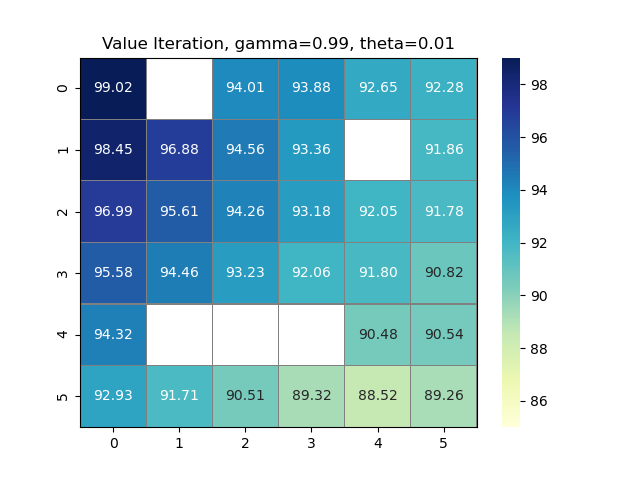
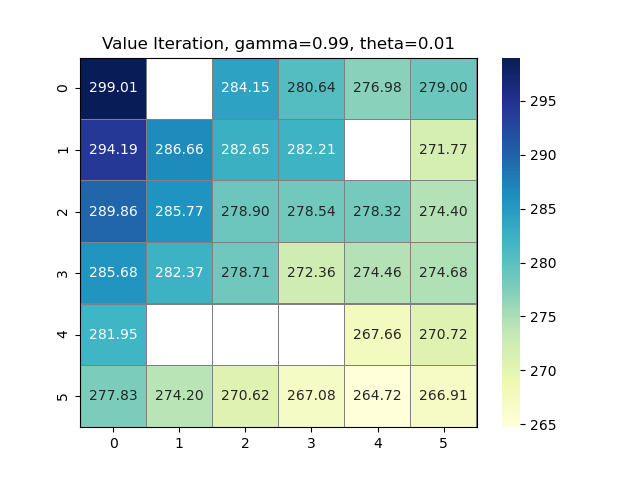
updated code to reflect IA equations

diff --git a/learner/policy_iteration.py b/learner/policy_iteration.py
@@ -1,7 +1,60 @@
 import numpy as np
 from learner.learner import Learner
+from copy import deepcopy
 
 class PolicyIterationLearner(Learner):
     def __init__(self, env):
         super(PolicyIterationLearner, self).__init__(env)
         self.name = "Policy Iteration"
+        self.action_dict = {
+            "Up": 0,
+            "Down": 1,
+            "Left": 2,
+            "Right": 3
+        }
+
+    def bellman_update(self, s, gamma, V):
+        Q_values = []
+        action_probs = []
+        for a in self.env.actions:
+            q_value = 0
+            action_idx = self.action_dict[a]
+            action_prob = self.pi[s, action_idx]
+            action_probs.append(action_prob)
+            for next_state, probability in self.env.transitions(s, a):
+                next_location = self.env._to_location(next_state)
+                reward = self.env.get_reward(next_location)
+                q_value += probability * (reward + gamma * V[next_state])
+            Q_values.append(q_value)
+        Q_values = np.asarray(Q_values)
+        action_probs = np.asarray(action_probs)
+        self.V[s] = np.dot(Q_values, action_probs)
+
+    def policy_evaluation(self, gamma, theta):
+        self.gamma = gamma
+        self.theta = theta
+        i = 0
+        while True:
+            V_old = deepcopy(self.V)
+            delta = 0
+            if i % 50 == 0:
+                print('On iteration', i)
+            for s in self.env.learnable_states:
+                v = V_old[s] # cache value for comparison between iterations
+                self.bellman_update(s, gamma, V_old)
+                delta = max(delta, abs(v - self.V[s]))
+            i += 1
+            if delta < theta:
+                print('Converged within theta margin at iteration', i)
+                break
+
+    def policy_improvement(self):
+        # wrapper around greedification to be idiomatic with terminology
+        for s in self.env.states:
+            if s in self.env.learnable_states:
+                self.q_greedify_policy(s, self.gamma)
+            else:
+                self.pi[s] = np.zeros(self.env.n_actions)
+
+    def policy_iteration(self, gamma, theta):
+        self.policy_evaluation(gamma, theta)

diff --git a/tests/test_maze.py b/tests/test_maze.py
@@ -56,9 +56,9 @@ def test_state_provider():
     action_2 = 'Up'
     action_3 = 'Right'
 
-    assert maze.get_new_state(action_1, location) == (1, 0)
-    assert maze.get_new_state(action_2, location) == (0, 0)
-    assert maze.get_new_state(action_3, location) == (0, 0)
+    assert maze.get_new_location(action_1, location) == (1, 0)
+    assert maze.get_new_location(action_2, location) == (0, 0)
+    assert maze.get_new_location(action_3, location) == (0, 0)
 
 def test_learnability():
     maze = Maze('default')
@@ -68,26 +68,25 @@ def test_learnability():
     assert maze.is_learnable_state(location1) == True
     assert maze.is_learnable_state(location2) == False 
 
-def test_transitions():
-    maze = Maze('default')
-    location = (0, 0)
-    action_1 = 'Down'
-    action_2 = 'Up'
+# def test_transitions():
+#     maze = Maze('default')
+#     location = (0, 0)
+#     action_1 = 'Down'
+#     action_2 = 'Up'
 
-    transition_1 = np.array([[(1, 0), 0.8],
-                             [(0, 0), 0.1],
-                             [(0, 0), 0.1]], dtype=object)
+#     transition_1 = np.array([[(1, 0), 0.8],
+#                              [(0, 0), 0.1],
+#                              [(0, 0), 0.1]], dtype=object)
 
-    transition_2 = np.array([[(0, 0), 0.8],
-                             [(0, 0), 0.1],
-                             [(0, 0), 0.1]], dtype=object)
+#     transition_2 = np.array([[(0, 0), 0.8],
+#                              [(0, 0), 0.1],
+#                              [(0, 0), 0.1]], dtype=object)
 
-    assert np.all(maze.transitions(location, action_1) == transition_1)
-    assert np.all(maze.transitions(location, action_2) == transition_2)
+#     assert np.all(maze.transitions(location, action_1) == transition_1)
+#     assert np.all(maze.transitions(location, action_2) == transition_2)
 
 def test_location():
     env = Maze('default')
-    learner = ValueIterationLearner(env)
 
-    assert learner._to_location(6) == (1, 0)
-    assert learner._to_location(9) == (1, 3)
+    assert env._to_location(6) == (1, 0)
+    assert env._to_location(9) == (1, 3)

diff --git a/learner/value_iteration.py b/learner/value_iteration.py
@@ -12,10 +12,11 @@ class ValueIterationLearner(Learner):
         location = self.env._to_location(s)
         for a in self.env.actions:
             q_value = 0
+            # following IA equation, reward is for R(s) not R(s_prime)
+            reward = self.env.get_reward(location)
             for next_state, probability in self.env.transitions(s, a):
-                next_location = self.env._to_location(next_state)
-                reward = self.env.get_reward(next_location)
-                q_value += probability * (reward + gamma * V[next_state])
+                # reward also pulled outside of probability
+                q_value += reward + probability * (gamma * V[next_state])
             Q_values.append(q_value)
         self.V[s] = max(Q_values)
 
@@ -35,9 +36,7 @@ class ValueIterationLearner(Learner):
                 delta = max(delta, abs(v - self.V[s]))
             i += 1
             if delta < theta:
-                print('Delta', delta)
-                print(s)
-                print('Ended at iteration', i)
+                print('Converged within theta margin at iteration', i)
                 break
         for s in self.env.states:
             if s in self.env.learnable_states:

diff --git a/learner/learner.py b/learner/learner.py
@@ -28,9 +28,13 @@ class Learner(object):
         one_hot[np.argmax(Q_values)] = 1.0
         self.pi[s] = one_hot
 
-    def plot_value(self, annot=True, vmin=85, cmap='YlGnBu', save_path=None):
+    def plot_value(self, annot=True, vmin='auto', cmap='YlGnBu', save_path=None):
         V_shaped = deepcopy(self.V.reshape(self.env.shape))
         V_shaped[V_shaped == 0] = np.nan
+        if vmin == 'auto':
+            print('Auto vmin selected...')
+            vmin = np.nanmin(V_shaped)
+            print('Auto vmin determined to be', vmin,'...')
         res = sns.heatmap(V_shaped, annot=annot, vmin=vmin, cmap=cmap, fmt='.2f', 
                     linewidths=0.1, linecolor='gray')
         for _, spine in res.spines.items():

diff --git a/main.py b/main.py
@@ -7,8 +7,7 @@ learner = ValueIterationLearner(env=env)
 
 learner.value_iteration(0.99, 0.01)
 # print(learner.pi)
-print(learner.V.reshape(env.shape))
+# print(learner.V.reshape(env.shape))
 learner.plot_value(save_path='visualisations/value_iteration_values.png')
 
 print(learner.recover_simple_policy())
-learner.visualise_policy()
